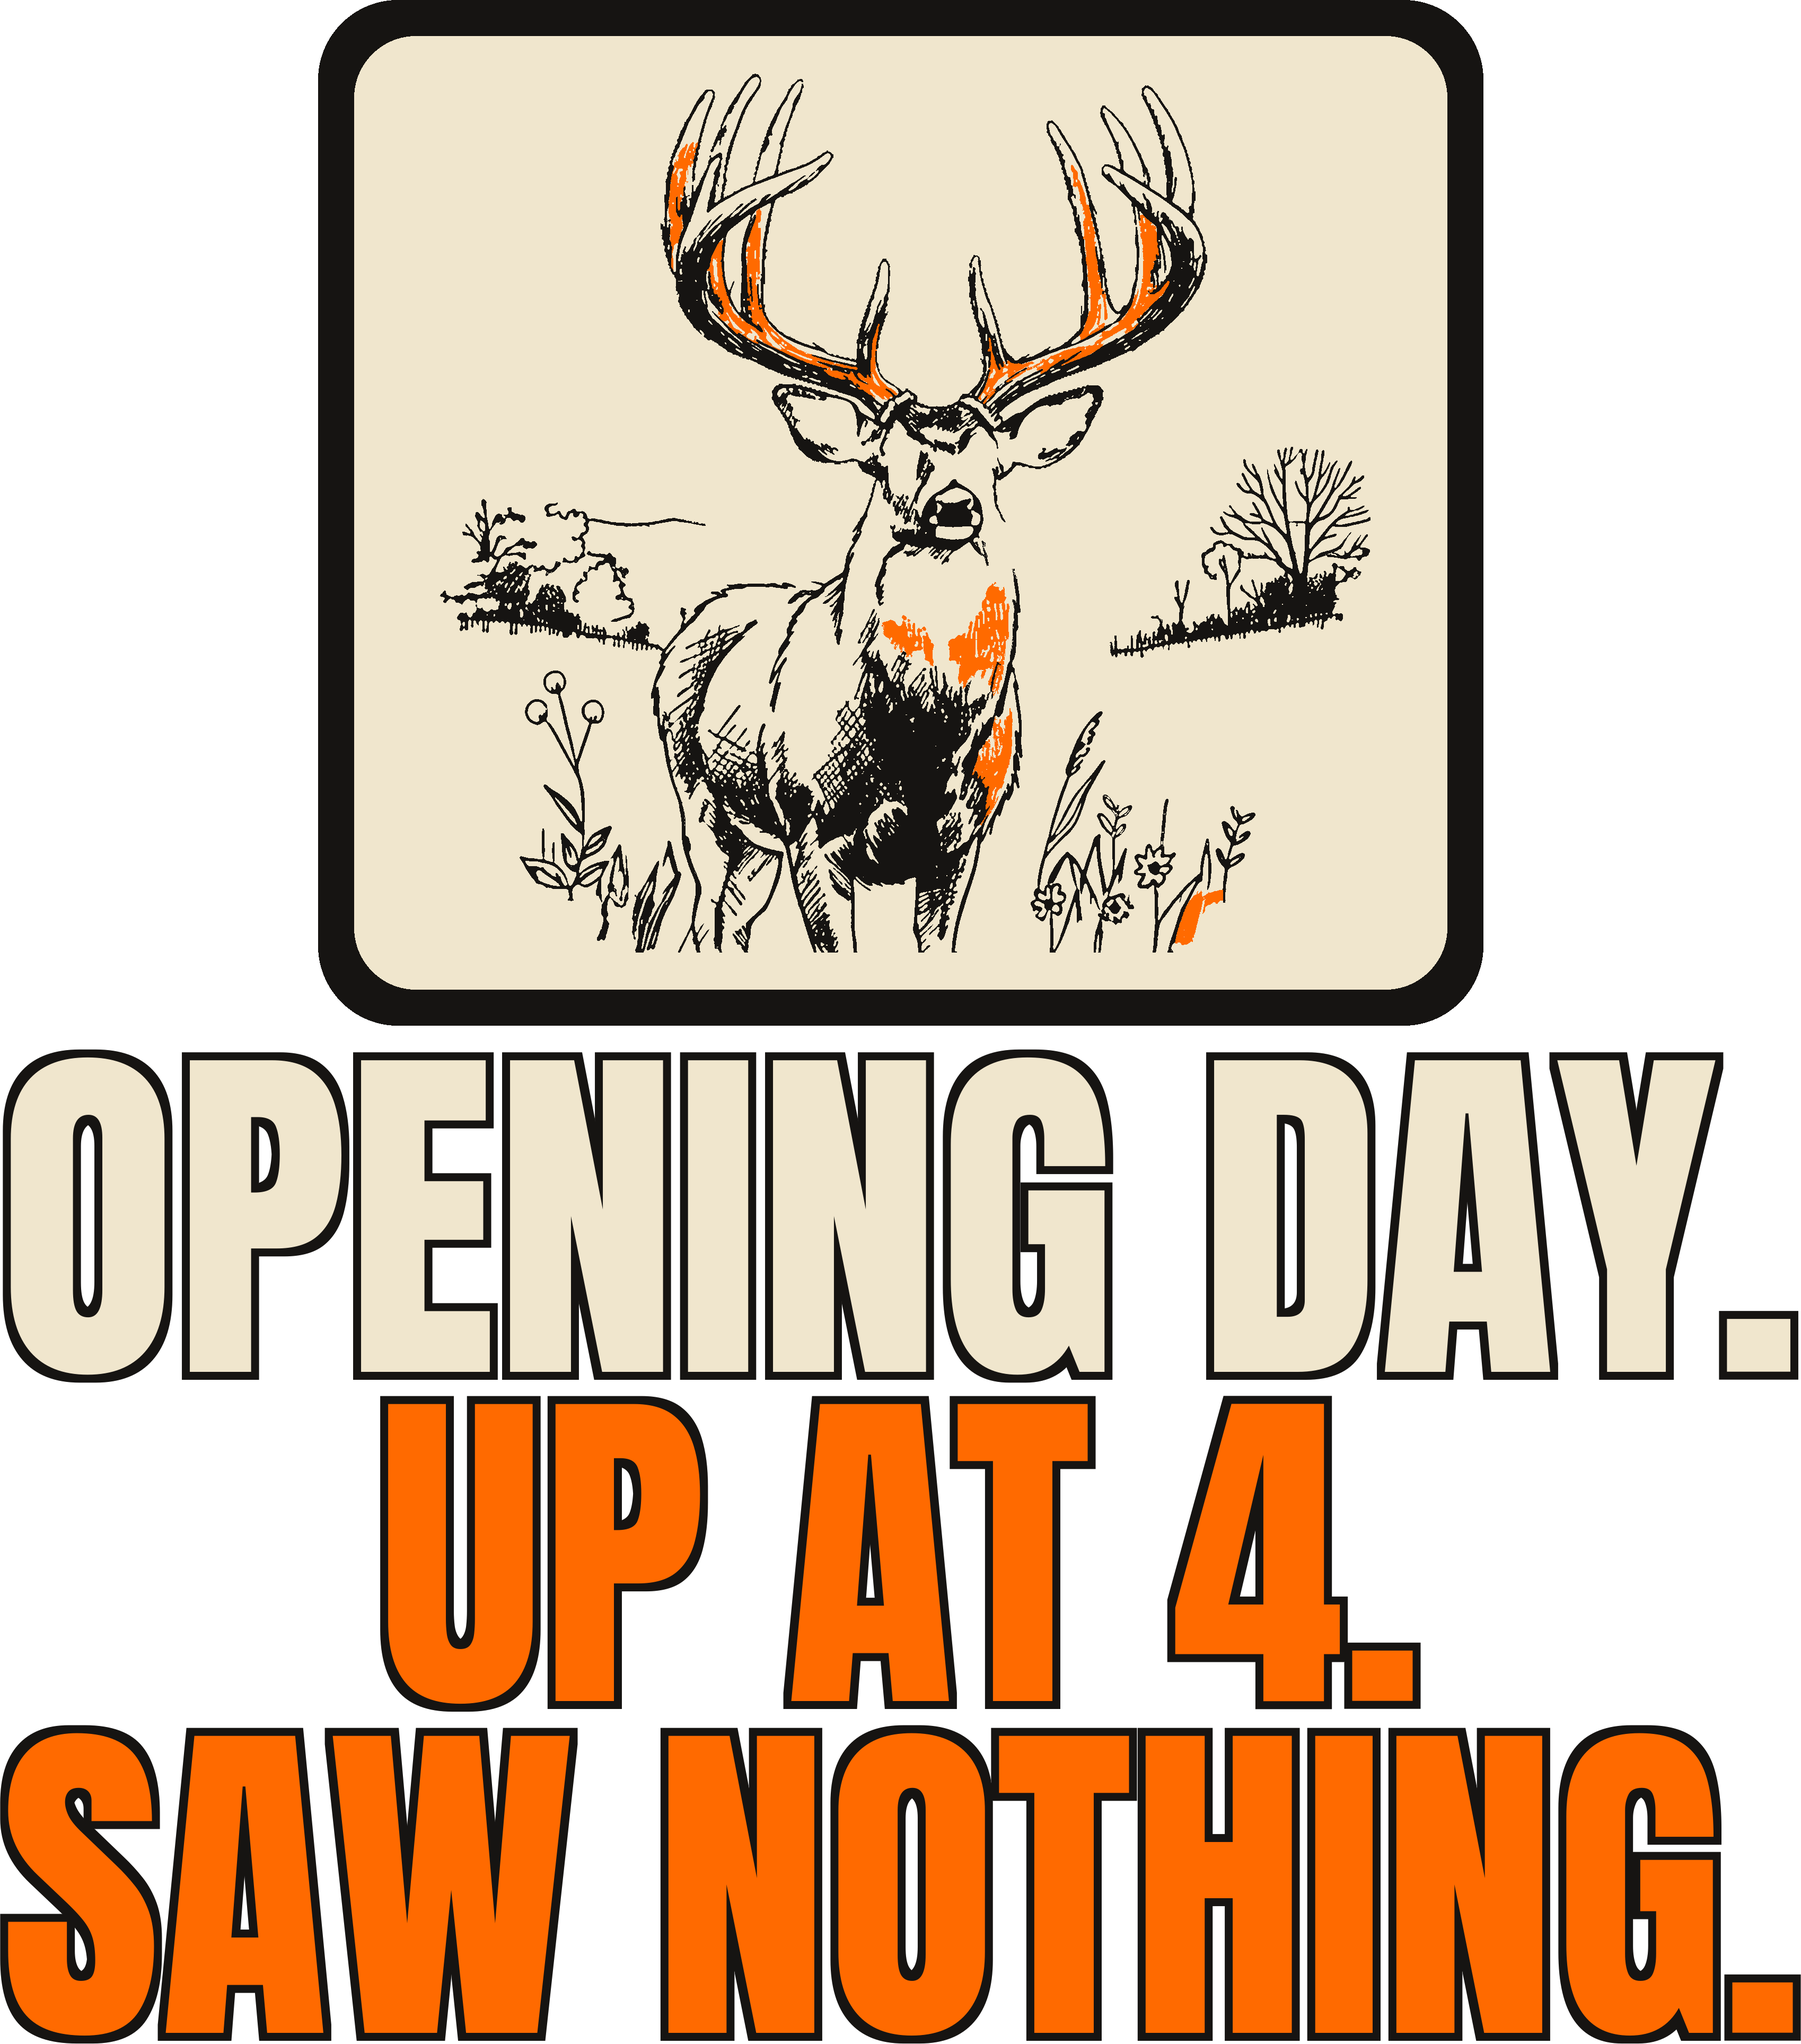
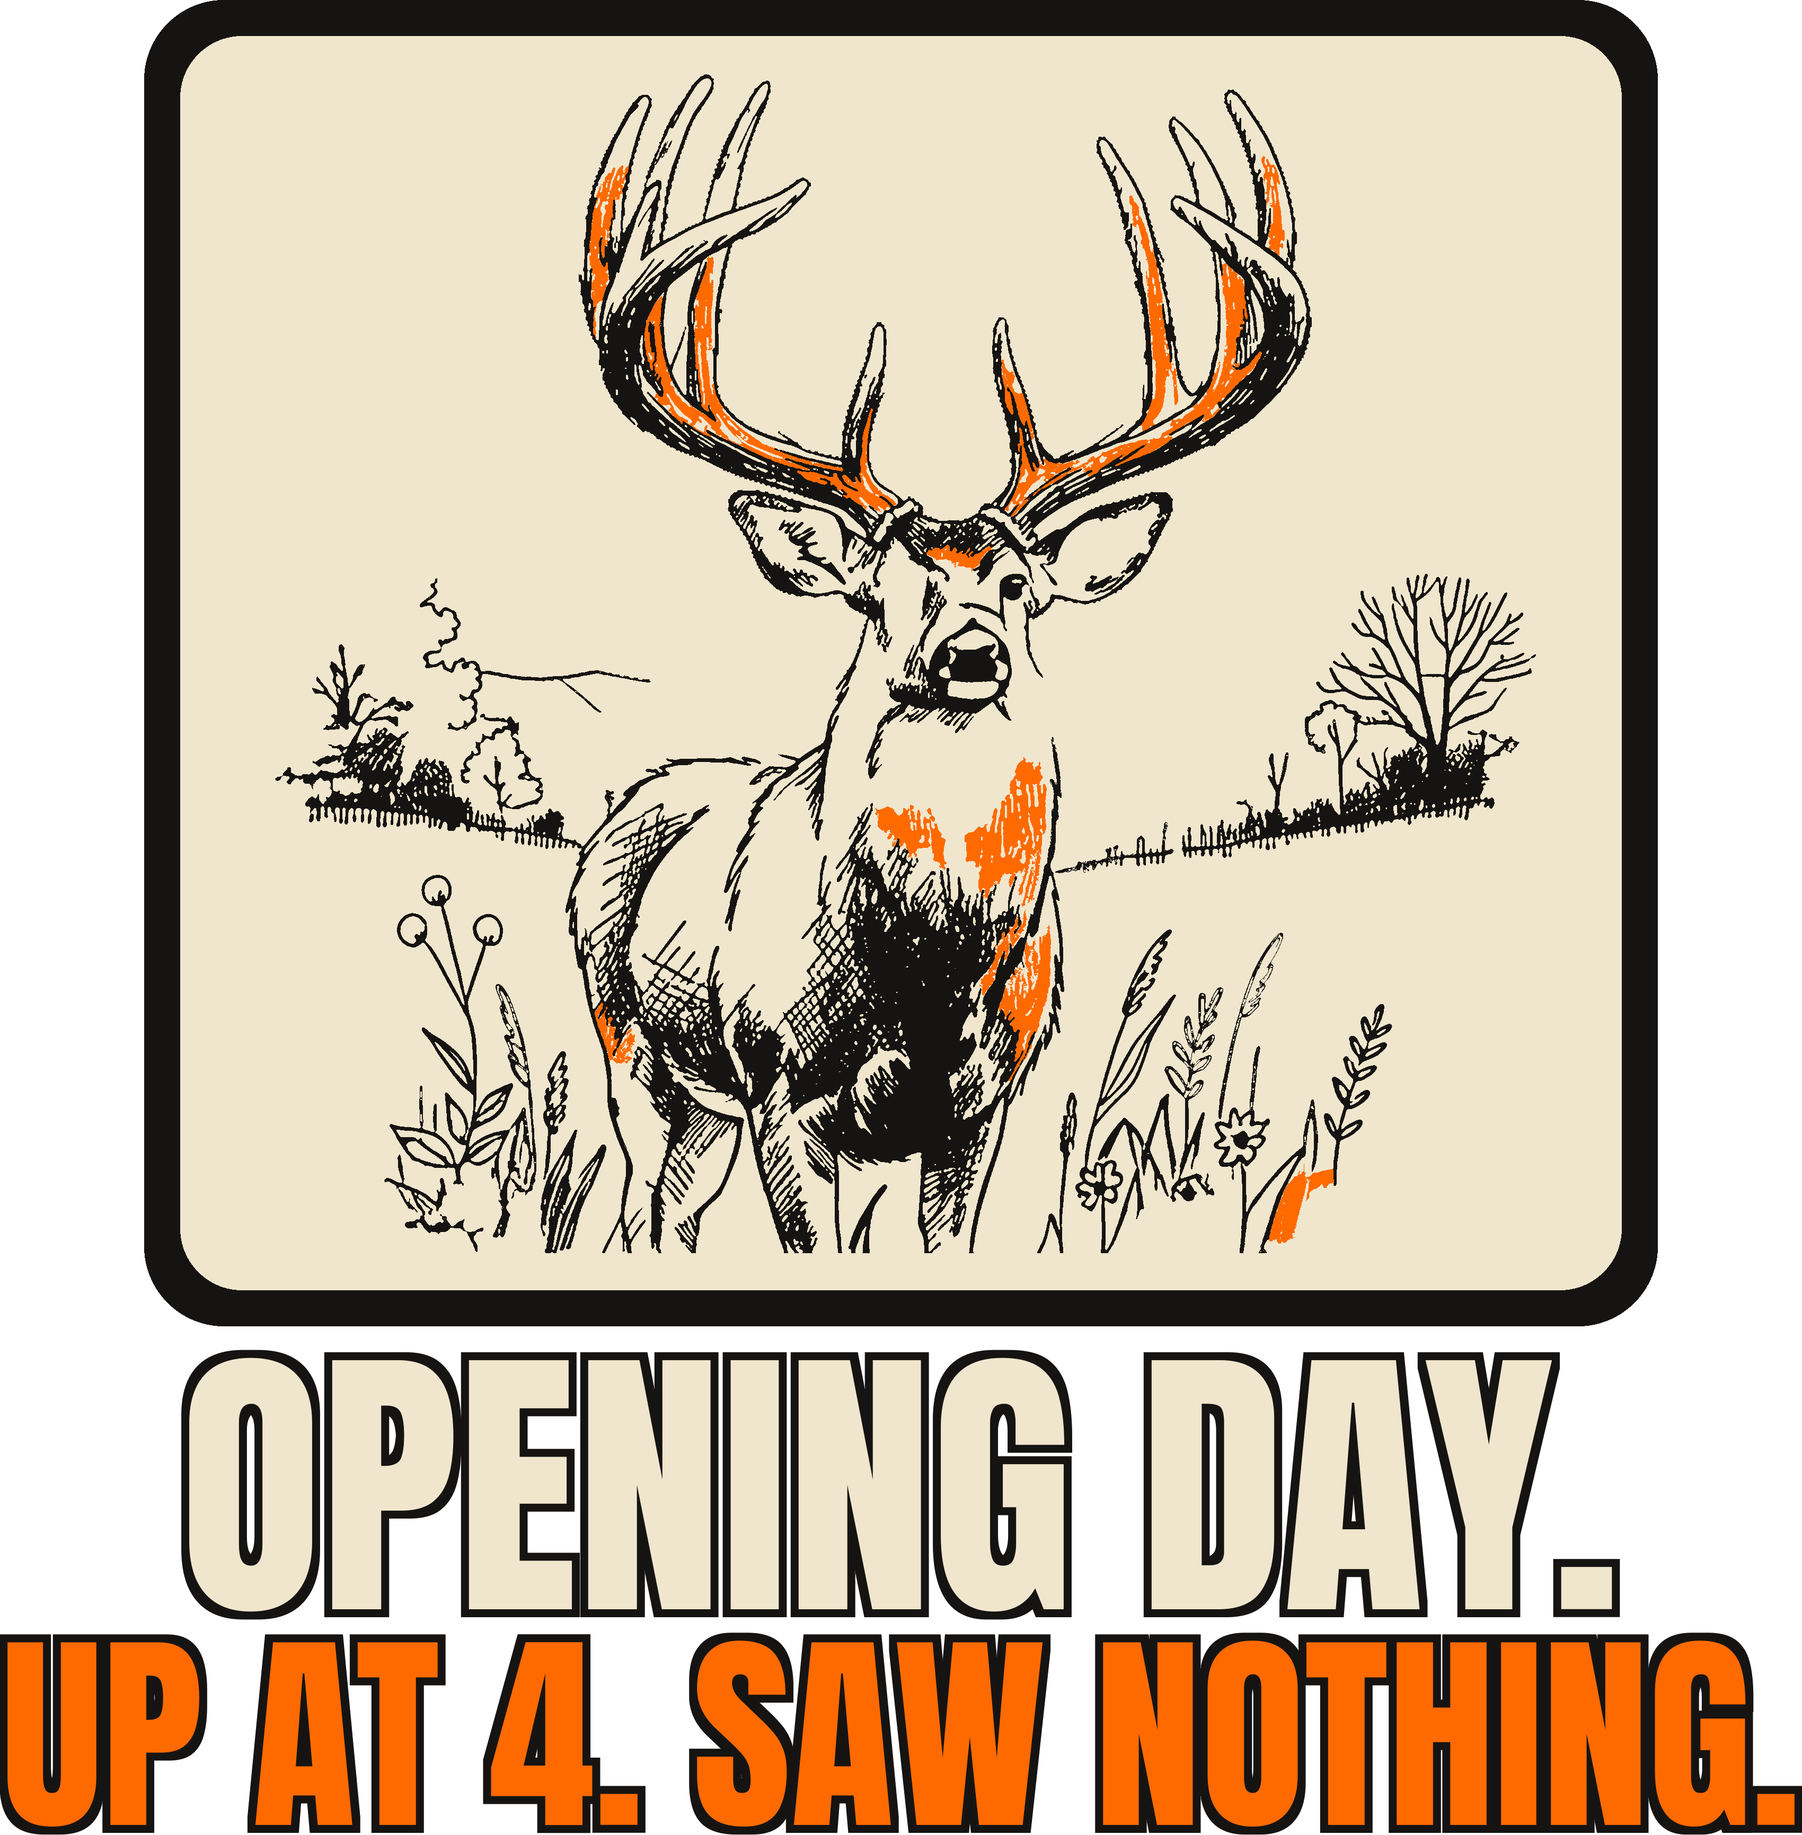
[B] camo redo sheets, helpers

diff --git a/designs/camo_batch.py b/designs/camo_batch.py
@@ -9,10 +9,10 @@ J = {
  843: (['DOE NOT'], ['DISTURB'], (0, 0, 1, 0.66), dict(fillL=200, aspect=1.25, patchw=0.92, hfrac=0.92, pfrac=0.92)),
  844: (['LONG BEARD,'], ['SHORT TEMPER.'], (0, 0.13, 1, 0.885), {}),
  845: (['SIT. WAIT. SNACK.'], [], (0, 0, 1, 0.885), {}),
- 865: (['OPENING DAY.'], ['UP AT 4.', 'SAW NOTHING.'], (0, 0, 1, 0.78), {}),
+ 865: (['OPENING DAY.'], ['UP AT 4. SAW NOTHING.'], (0, 0, 1, 0.78), dict(hfrac=0.8)),
  866: (['NO DEER TODAY.'], ['GREAT NAP THOUGH.'], (0, 0.19, 1, 1.0), dict(fillL=225, patchw=0.92)),
  868: (['FLUENT IN HONK'], [], (0, 0, 1, 0.85), {}),
- 869: (['FULL DRAW,'], ['ZERO DEER'], (0, 0.13, 1, 0.915), {}),
+ 869: (['FULL DRAW,'], ['ZERO DEER'], (0, 0.13, 1, 0.885), dict(aspect=1.1, hfrac=0.95, pfrac=0.95)),
  870: (['ANTLER ENVY'], [], (0, 0, 1, 0.745), dict(fillL=225)),
 }
 if __name__ == '__main__':
